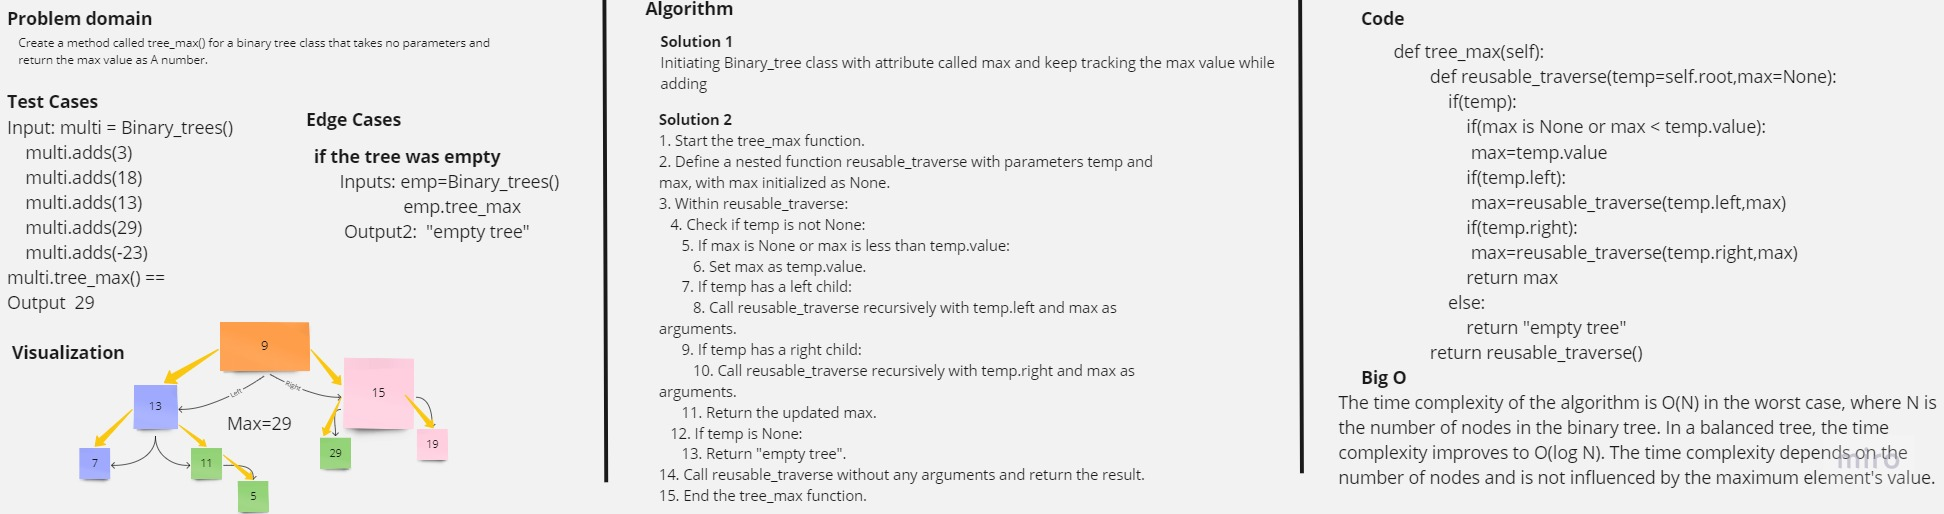
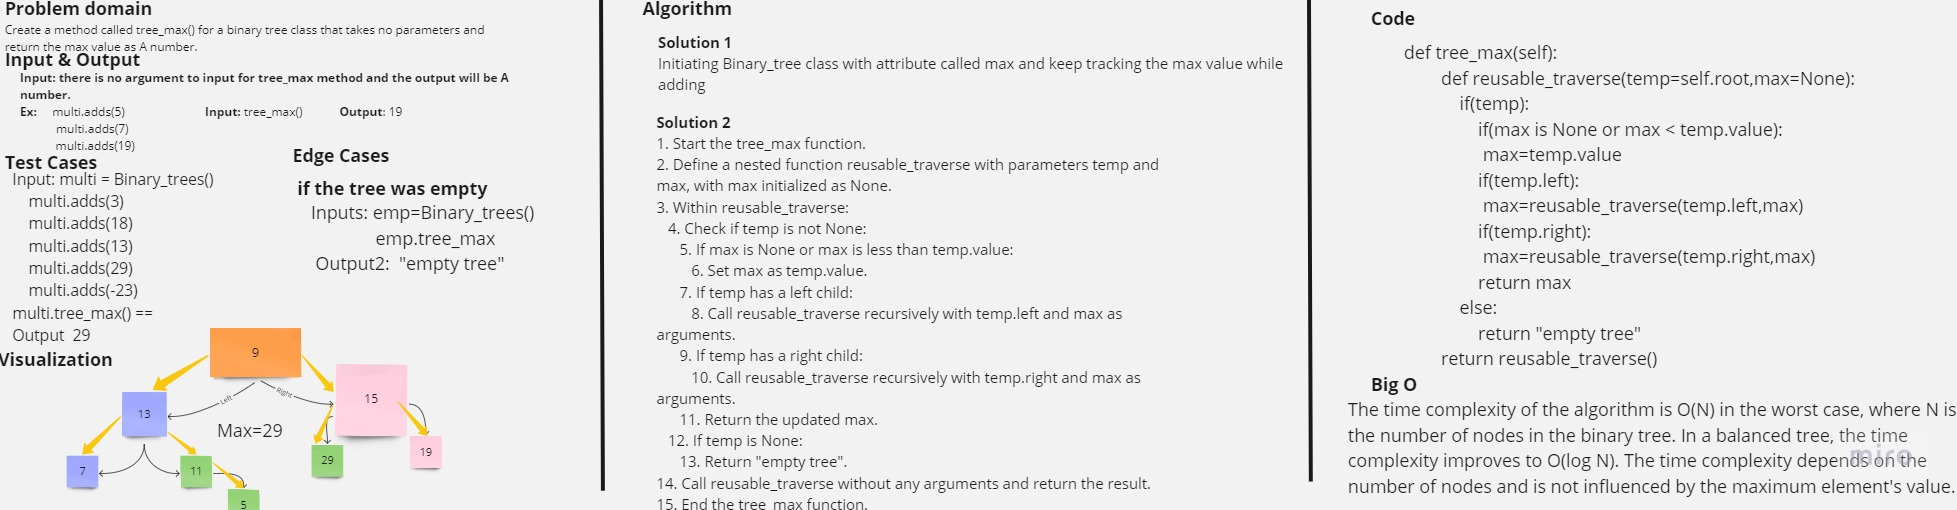
added doc strings and Input and Output to the whiteboard

diff --git a/trees/binary_tree.py b/trees/binary_tree.py
@@ -5,6 +5,7 @@ class Binary_trees:
         self.root=None
 
     def adds(self,value,temp=None):
+        """this method adds nodes to binary tree randomly"""
         node=Node(value)
         if(not self.root):
             self.root=node
@@ -23,6 +24,7 @@ class Binary_trees:
                 self.adds(value,temp)    
         
     def pre_order(self,arg=None,resu=None):
+        """this method used to traverse on the tree by ordering the root first then the left leaf then the right"""
         if(self.root is None):
             return []
         if(resu is None):
@@ -39,6 +41,7 @@ class Binary_trees:
                 self.pre_order(arg.right,resu)
 
     def in_order(self,arg=None,resu=None):
+        """this method used to traverse on the tree by ordering the left leaf first then the root then the right"""
         if(resu is None):
             resu = []
         if(arg==None):
@@ -53,6 +56,7 @@ class Binary_trees:
             return resu
     
     def post_order(self,arg=None,resu=None):
+        """this method used to traverse on the tree by ordering the left leaf first then the right leaf then the root"""
         if(arg is None):
             arg = self.root
         if(resu is None):
@@ -68,6 +72,7 @@ class Binary_trees:
 
 class Binary_search_tree(Binary_trees):
     def add(self,value,temp=None):
+        """this method used to add a node on the tree on the left or the the right depending on its value """
         node=Node(value)
         if(not self.root):
             self.root=node
@@ -90,6 +95,7 @@ class Binary_search_tree(Binary_trees):
             return
 
     def contains(self,value,temp=None):
+        """this method used to check if a given value is in the tree or not and return a boolean depending on it"""
         if(not self.root):
             return "empty tree"
         if(temp == None):

diff --git a/tree_max/tree_max.py b/tree_max/tree_max.py
@@ -6,6 +6,7 @@ class Binary_trees:
         self.max=None
 
     def adds(self,value,temp=None):
+        """this method adds nodes to binary tree randomly"""
         node=Node(value)
         if(self.max is None or value > self.max):
             self.max=value    
@@ -26,6 +27,7 @@ class Binary_trees:
                 self.adds(value,temp)    
         
     def pre_order(self,arg=None,resu=None):
+        """this method used to traverse on the tree by ordering the root first then the left leaf then the right"""
         if(self.root is None):
             return []
         if(resu is None):
@@ -42,6 +44,7 @@ class Binary_trees:
                 self.pre_order(arg.right,resu)
 
     def in_order(self,arg=None,resu=None):
+        """this method used to traverse on the tree by ordering the left leaf first then the root then the right"""
         if(resu is None):
             resu = []
         if(arg==None):
@@ -56,6 +59,7 @@ class Binary_trees:
             return resu
     
     def post_order(self,arg=None,resu=None):
+        """this method used to traverse on the tree by ordering the left leaf first then the right leaf then the root"""
         if(arg is None):
             arg = self.root
         if(resu is None):
@@ -69,6 +73,7 @@ class Binary_trees:
         if(arg is self.root):
             return resu
     def tree_max(self):
+        """this method used to traverse on a tree and return the maxmum value in it"""
         def reusable_traverse(temp=self.root,max=None):
             if(temp):
                 if(max is None or max < temp.value):
